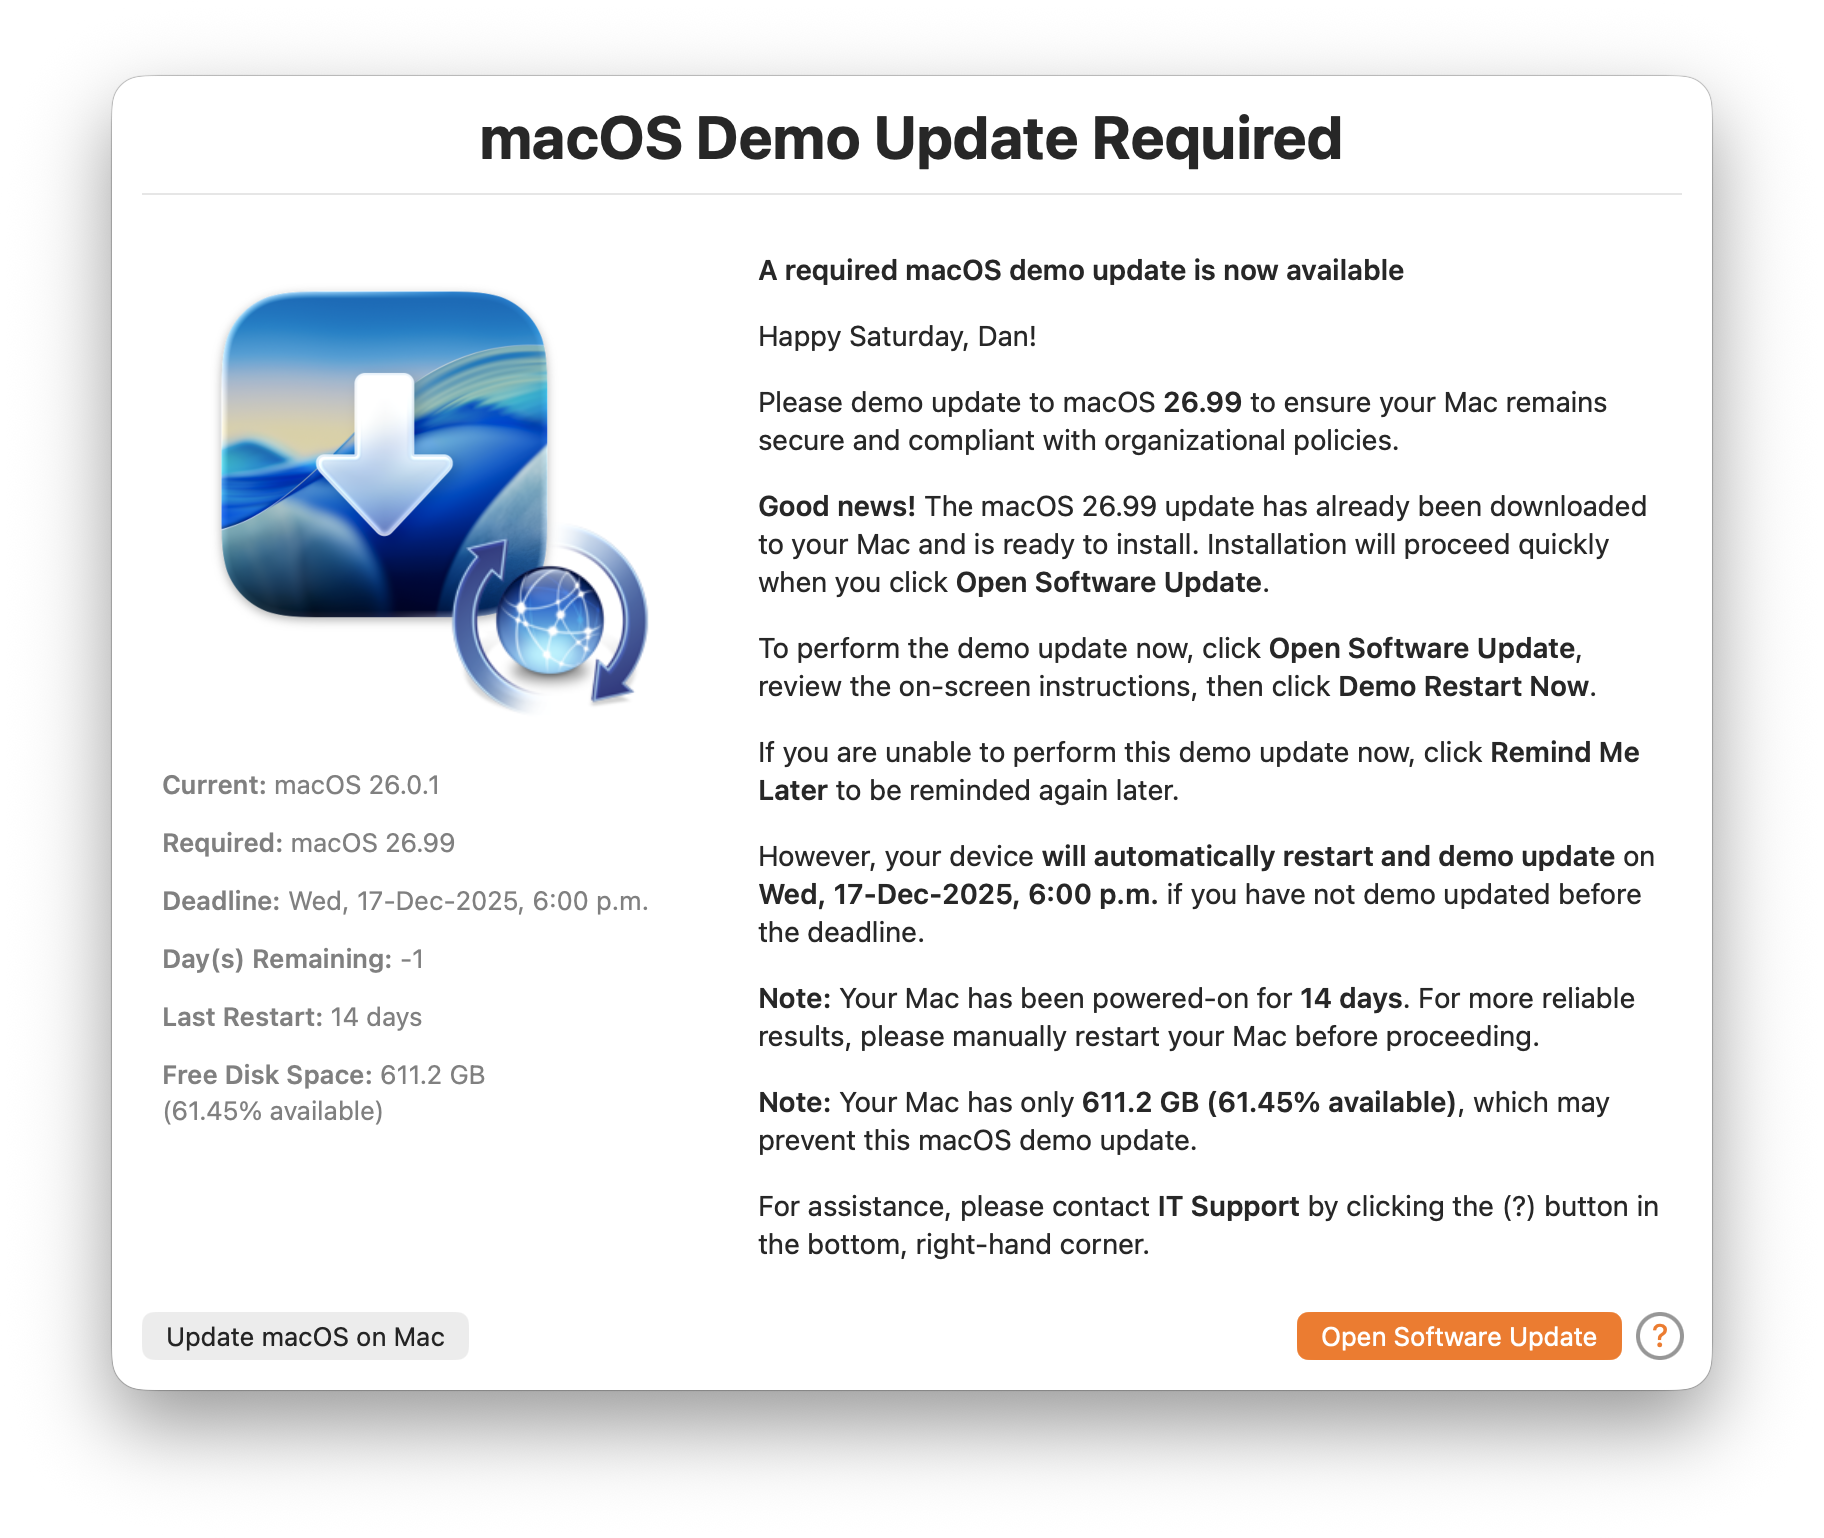
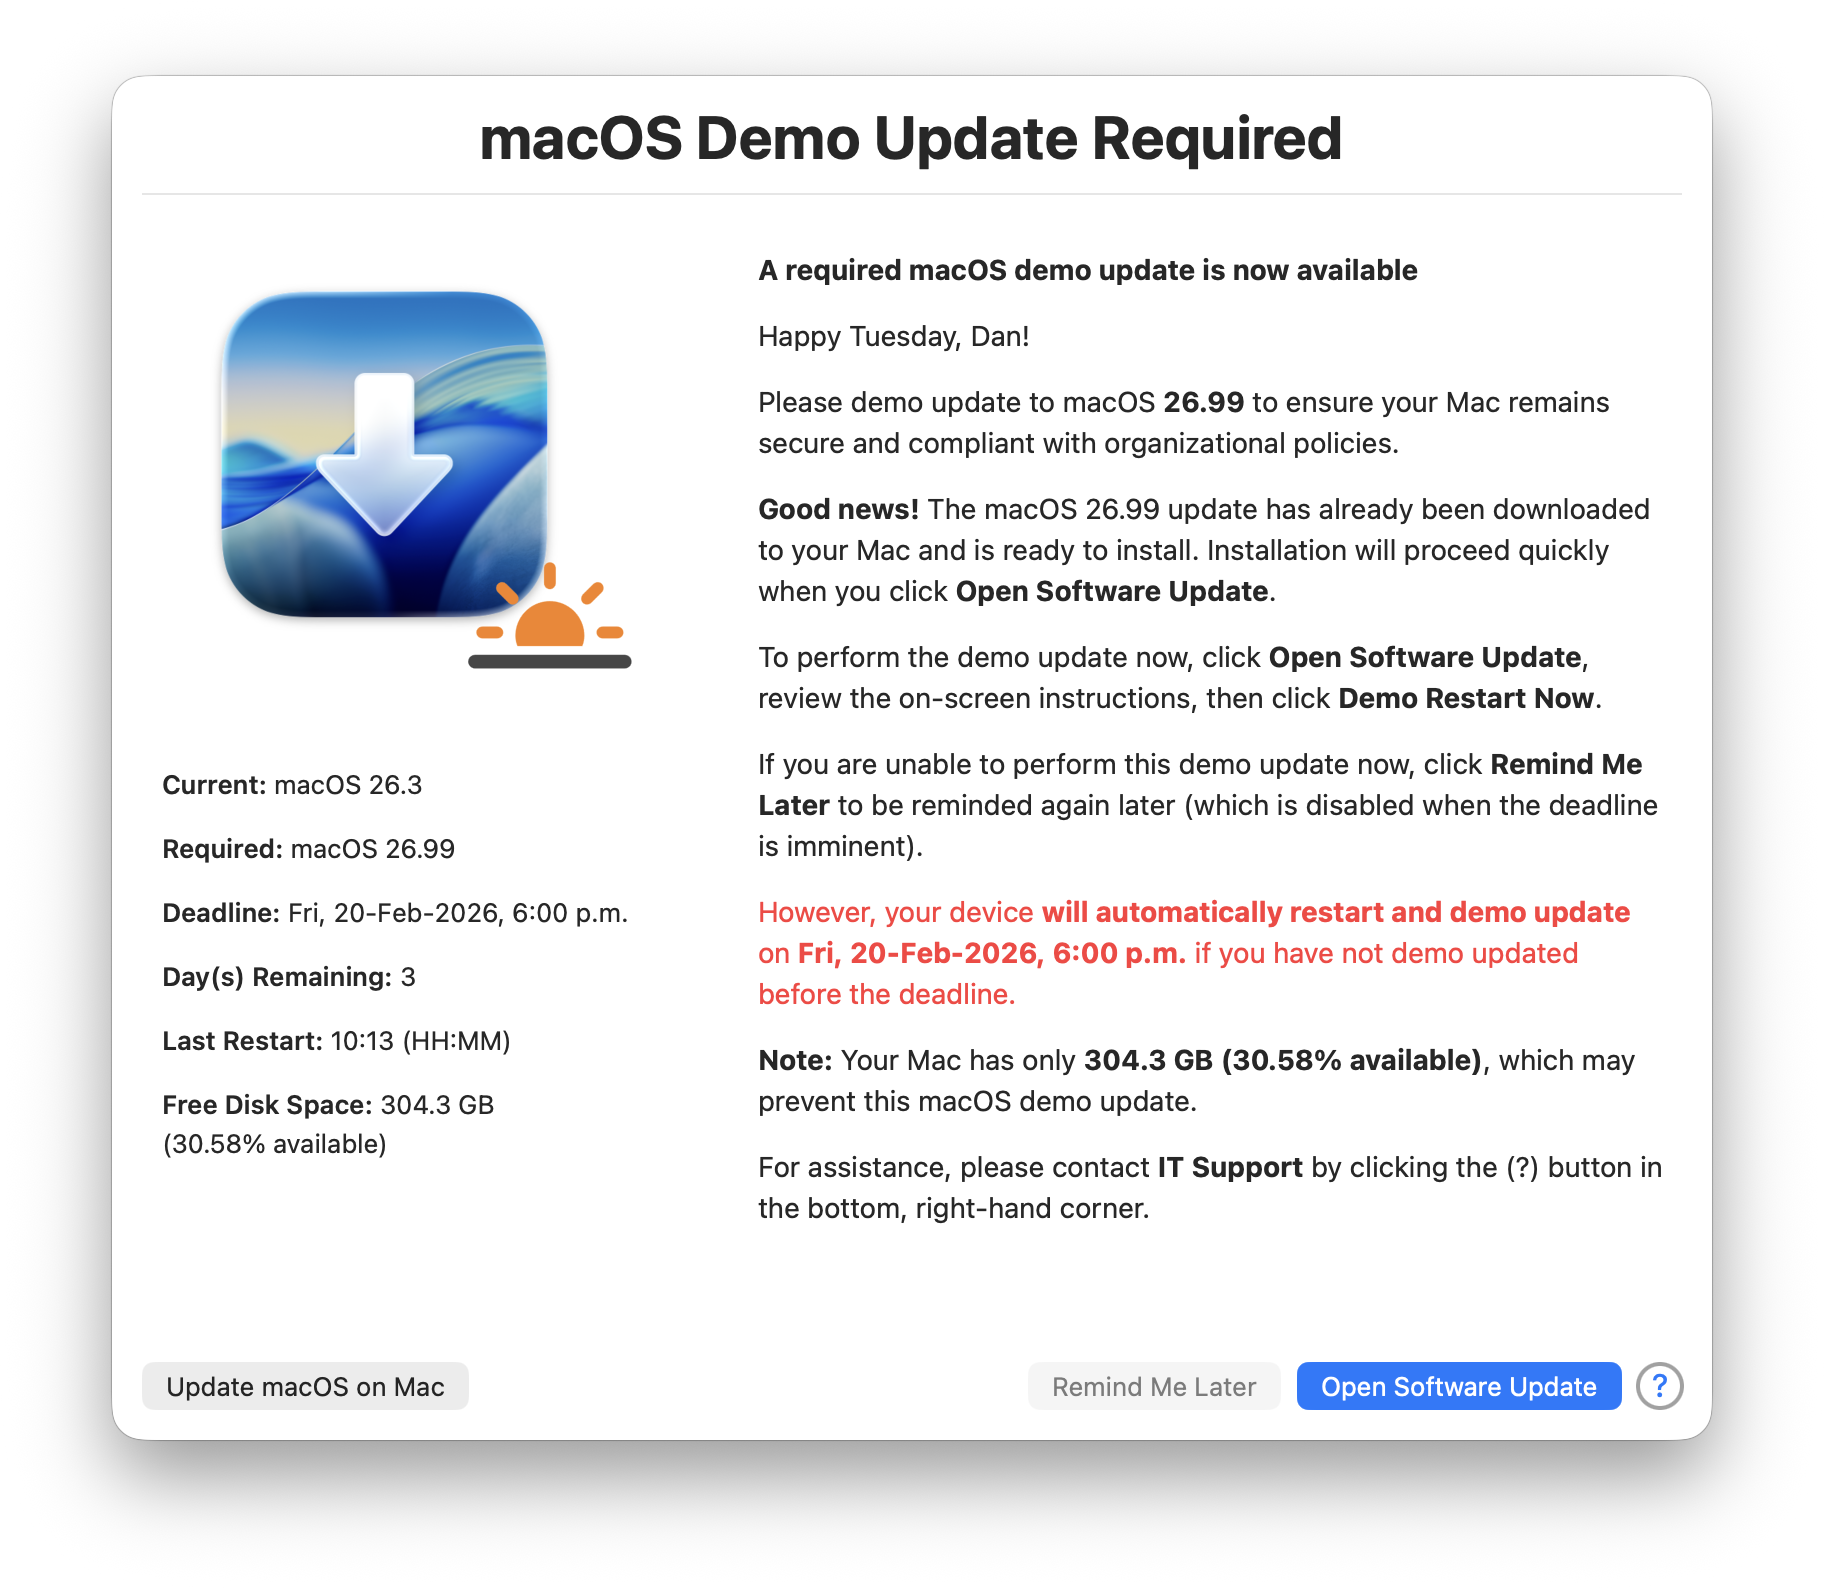
2.5.0

diff --git a/README.md b/README.md
@@ -1,9 +1,9 @@
 ![GitHub release (latest by date)](https://img.shields.io/github/v/release/dan-snelson/DDM-OS-Reminder?display_name=tag) ![GitHub pre-release (latest by date)](https://img.shields.io/github/v/release/dan-snelson/DDM-OS-Reminder?display_name=tag&include_prereleases) ![GitHub issues](https://img.shields.io/github/issues-raw/dan-snelson/DDM-OS-Reminder) ![GitHub closed issues](https://img.shields.io/github/issues-closed-raw/dan-snelson/DDM-OS-Reminder) ![GitHub pull requests](https://img.shields.io/github/issues-pr-raw/dan-snelson/DDM-OS-Reminder) ![GitHub closed pull requests](https://img.shields.io/github/issues-pr-closed-raw/dan-snelson/DDM-OS-Reminder)
 
-# DDM OS Reminder
-> Yet another maintenance release of Mac Admins’ new favorite, MDM-agnostic, **“set-it-and-forget-it”** end-user reminder for Apple’s Declarative Device Management-enforced macOS update deadlines, with a new **allowlist for more robust meeting detection**, **dark‑mode overlay icon support**, and **enhanced error checking**.
+# DDM OS Reminder (2.5.0)
+> Mac Admins’ favorite MDM-agnostic, **“set-it-and-forget-it”** reminder now delivers **smarter staged-update validation**, **clear red enforcement messaging**, and **deadline language users immediately understand**
 
-<img src="images/ddmOSReminder_Hero.png" alt="Mac Admins’ new favorite for “set-it-and-forget-it” end-user messaging of Apple’s Declarative Device Management-enforced macOS update deadlines" width="800"/>
+<img src="images/after.jpg" alt="Mac Admins’ new favorite for “set-it-and-forget-it” end-user messaging of Apple’s Declarative Device Management-enforced macOS update deadlines" width="800"/>
 
 ## Overview
 

diff --git a/Diagrams/06-configuration-reference.md b/Diagrams/06-configuration-reference.md
@@ -1170,7 +1170,7 @@ sudo defaults write /Library/Preferences/org.churchofjesuschrist.dorm \
 | `{button2text}` | Config | Secondary button | Remind Me Later |
 | `{infobuttonaction}` | Config | Info button URL | https://support.apple.com/... |
 | `{dialogVersion}` | System | swiftDialog version | 2.5.6 |
-| `{scriptVersion}` | System | Script version | 2.5.0b4 |
+| `{scriptVersion}` | System | Script version | 2.5.0 |
 
 ### swiftDialog Built-in Variables (Resolved by swiftDialog)
 
@@ -1647,10 +1647,10 @@ cat /Library/Managed\ Preferences/org.churchofjesuschrist.dorm.plist
 | Version | Date | Changes |
 |---------|------|---------|
 | 2.3.0 | 2026-01-19 | Initial configuration reference documentation |
-| 2.5.0b4 | 2026-02-14 | Updated staged-update criteria documentation to reflect proposed metadata validation and pending-download normalization behavior |
+| 2.5.0 | 2026-02-14 | Updated staged-update criteria documentation to reflect proposed metadata validation and pending-download normalization behavior |
 
 ---
 
 **Last Updated**: February 14, 2026
-**DDM OS Reminder Version**: 2.5.0b4
+**DDM OS Reminder Version**: 2.5.0
 **Variables Documented**: 33 configurable preferences

diff --git a/CHANGELOG.md b/CHANGELOG.md
@@ -2,7 +2,7 @@
 
 ## Changelog
 
-### Version 2.5.0b4 (17-Feb-2026)
+### Version 2.5.0 (19-Feb-2026)
 - Enhanced `detectStagedUpdate` to read staged proposed macOS version/build metadata from `cryptex1/proposed` and confirm it matches the DDM-enforced version when available ([Feature Request #72](https://github.com/dan-snelson/DDM-OS-Reminder/issues/72))
 - Updated staged metadata handling to normalize partially/fully staged states without proposed metadata to `Pending download`, so reminder flow continues and staging is re-evaluated on subsequent runs
 - Updated reminder body text to use swiftDialog markdown color rendering so the automatic restart/update deadline sentence is displayed in red

diff --git a/Diagrams/04-deployment-workflow.md b/Diagrams/04-deployment-workflow.md
@@ -275,7 +275,7 @@ zsh assemble.zsh
 2. **Processing Output**:
 ```
 ===============================================================
-🧩 Assemble DDM OS Reminder (2.5.0b4)
+🧩 Assemble DDM OS Reminder (2.5.0)
 ===============================================================
 
 Full Paths:
@@ -384,7 +384,7 @@ tail -50 /var/log/org.churchofjesuschrist.log
 
 Expected output:
 ```
-[PRE-FLIGHT]      DDM OS Reminder (2.5.0b4)
+[PRE-FLIGHT]      DDM OS Reminder (2.5.0)
 [PRE-FLIGHT]      Initiating …
 [NOTICE]          Reset All Configuration Files …
 [NOTICE]          Create 'DDM OS Reminder' script

diff --git a/.github/ISSUE_TEMPLATE/bug_report.md b/.github/ISSUE_TEMPLATE/bug_report.md
@@ -45,7 +45,7 @@ If applicable, add screenshots to help explain your problem.
 **Environment (please complete the following information):**
  - OS version (i.e., 26.2)
  - swiftDialog version (i.e., 3.0.0)
- - Script version (i.e., 2.5.0b4) - please upgrade to the [latest version](https://github.com/dan-snelson/DDM-OS-Reminder/releases) before submitting a bug report.
+ - Script version (i.e., 2.5.0) - please upgrade to the [latest version](https://github.com/dan-snelson/DDM-OS-Reminder/releases) before submitting a bug report.
 
 **Additional context**
 Add any other context about the problem here.

diff --git a/AGENTS.md b/AGENTS.md
@@ -1,6 +1,6 @@
 # DDM OS Reminder — Agent Instructions
 
-> **Author**: Dan K. Snelson | **Version**: 2.5.0b4 | **Language**: zsh (Shell 100%) | **Platform**: macOS only | **License**: MIT
+> **Author**: Dan K. Snelson | **Version**: 2.5.0 | **Language**: zsh (Shell 100%) | **Platform**: macOS only | **License**: MIT
 
 ## Big picture
 - DDM OS Reminder is a macOS-only, MDM-agnostic reminder system for DDM-enforced OS update deadlines. It reads `/var/log/install.log` and shows a swiftDialog prompt via a LaunchDaemon.

diff --git a/Resources/README.md b/Resources/README.md
@@ -30,7 +30,7 @@ The artifacts will be saved as shown below:
 ❯ zsh assemble.zsh us.snelson --lane prod --interactive
 
 ===============================================================
-🧩 Assemble DDM OS Reminder (2.5.0b4)
+🧩 Assemble DDM OS Reminder (2.5.0)
 ===============================================================
 
 Full Paths:

diff --git a/.github/copilot-instructions.md b/.github/copilot-instructions.md
@@ -1,4 +1,4 @@
-# DDM OS Reminder — Copilot Instructions (2.5.0b4)
+# DDM OS Reminder — Copilot Instructions (2.5.0)
 
 ## Big Picture
 - DDM OS Reminder is a macOS-only, MDM-agnostic reminder system for DDM-enforced OS update deadlines. It reads `/var/log/install.log` and shows a swiftDialog prompt via a LaunchDaemon.

diff --git a/CONTRIBUTING.md b/CONTRIBUTING.md
@@ -1,4 +1,4 @@
-# Contributing to DDM OS Reminder (2.5.0b4)
+# Contributing to DDM OS Reminder (2.5.0)
 
 First, thank you for your interest in contributing to **DDM OS Reminder**! Community contributions have already greatly improved this project.
 

diff --git a/Diagrams/README.md b/Diagrams/README.md
@@ -482,4 +482,4 @@ Created to augment the comprehensive DDM OS Reminder documentation.
 ---
 
 **Last Updated**: February 14, 2026
-**DDM OS Reminder Version**: 2.5.0b4
+**DDM OS Reminder Version**: 2.5.0
